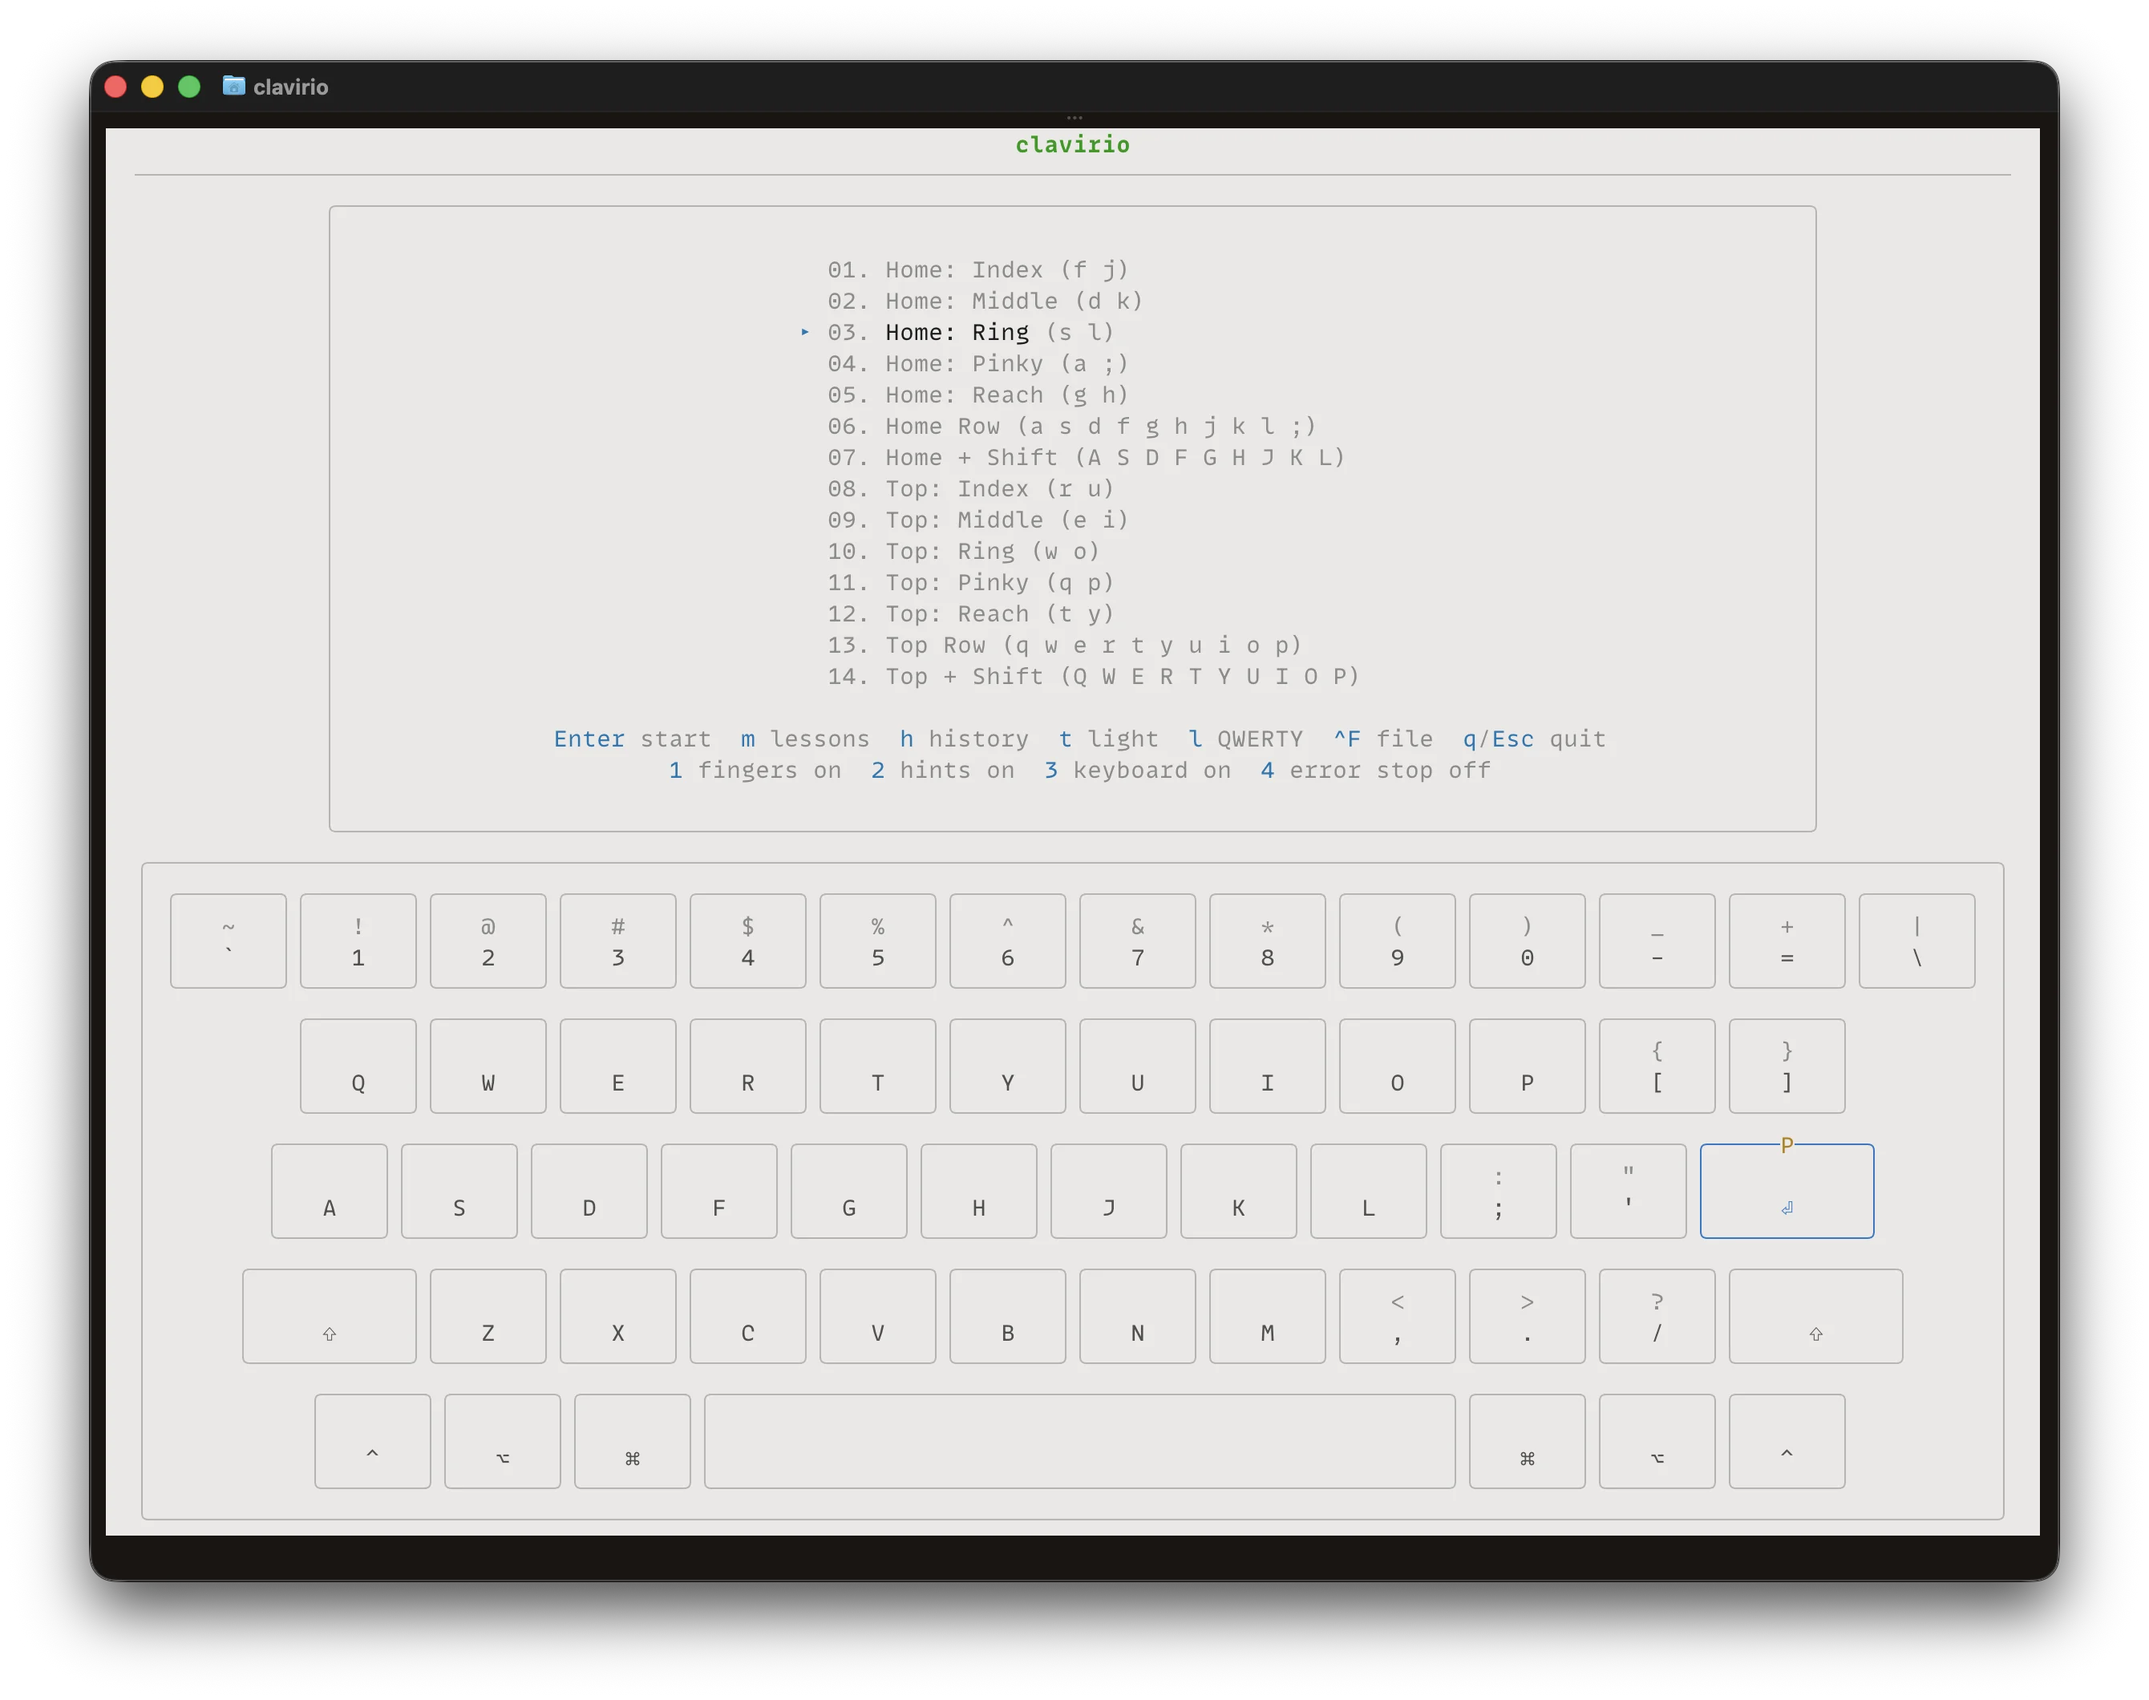
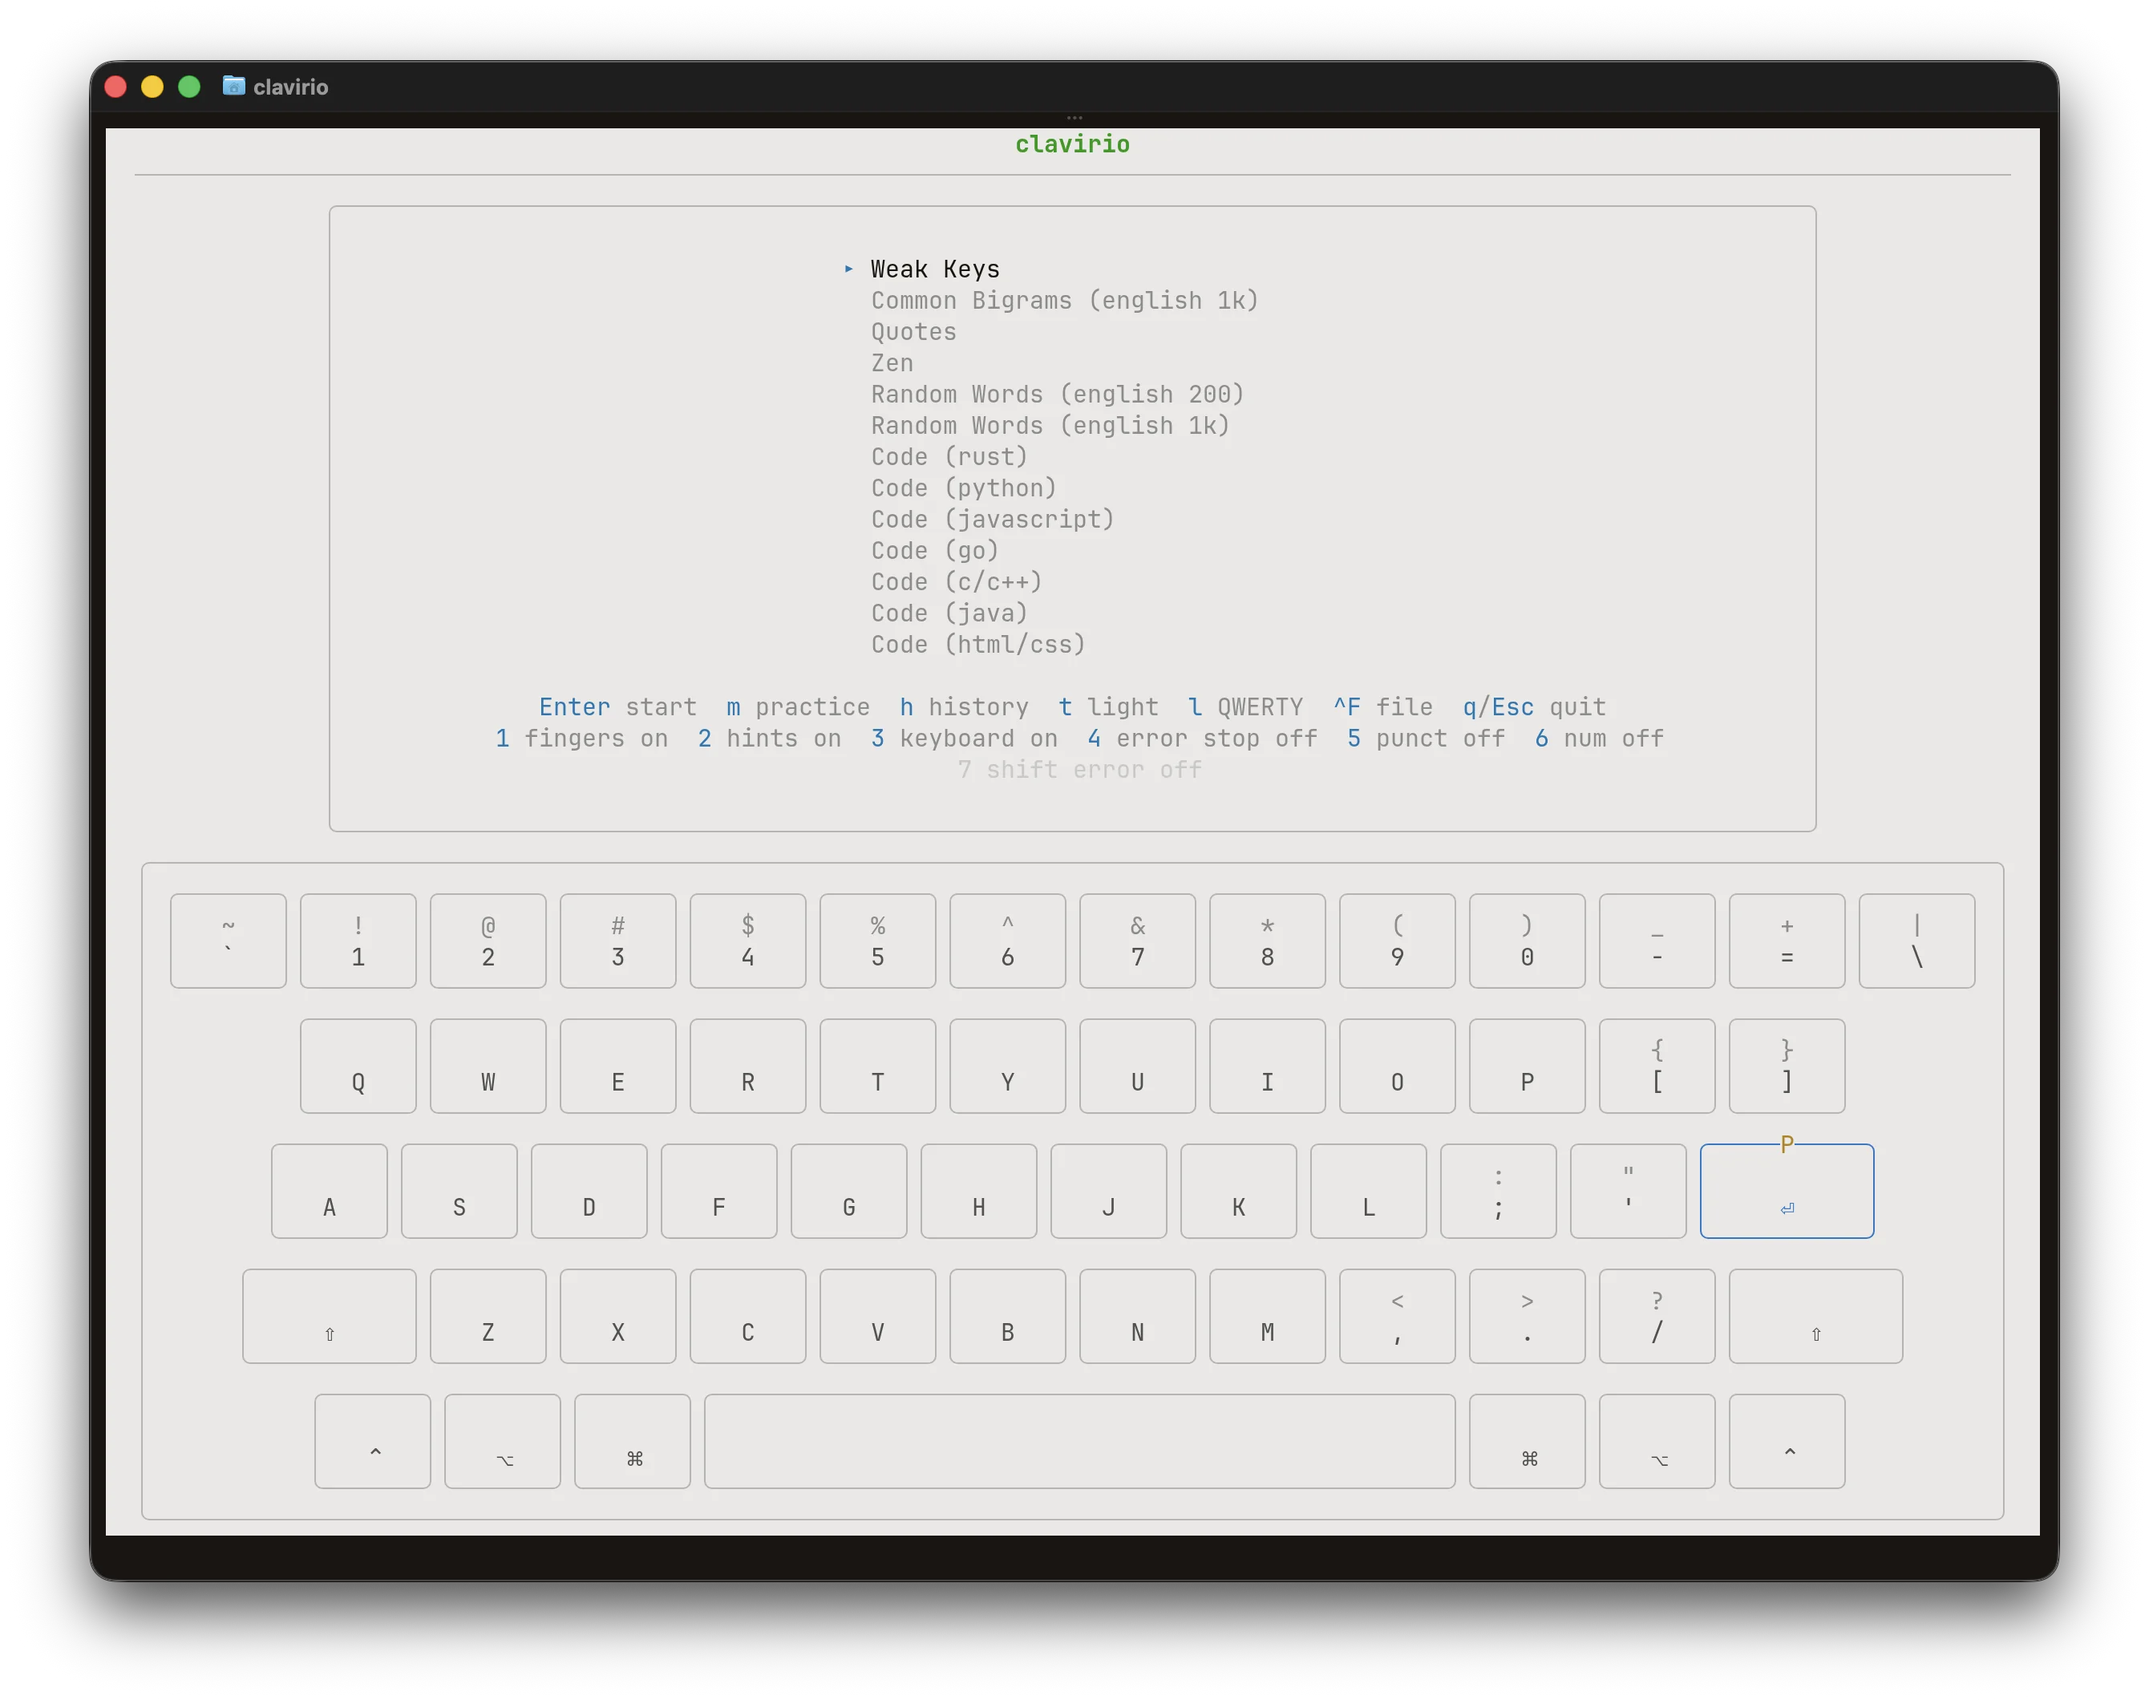
Show four screenshots with the new results screen and both menus

Changed region(s): [[0.2478, 0.1557, 0.7433, 0.467]]

diff --git a/src/components/Screenshot.tsx b/src/components/Screenshot.tsx
@@ -1,6 +1,28 @@
 import { useCallback, useEffect, useState } from "react";
 import styles from "./Screenshot.module.css";
 
+const SCREENSHOT_WIDTH = 2680;
+const SCREENSHOT_HEIGHT = 2120;
+
+const screenshots = [
+  {
+    src: "/images/screenshot_dark.webp",
+    alt: "clavirio dark theme — typing lesson with virtual keyboard and live stats",
+  },
+  {
+    src: "/images/screenshot_dark_2.webp",
+    alt: "clavirio dark theme — results screen with a new best speed, WPM sparkline, weakest keys and each key coloured by its accuracy",
+  },
+  {
+    src: "/images/screenshot_dark_3.webp",
+    alt: "clavirio dark theme — lesson menu with virtual keyboard",
+  },
+  {
+    src: "/images/screenshot_light.webp",
+    alt: "clavirio light theme — practice menu with virtual keyboard",
+  },
+];
+
 export default function Screenshot() {
   const [lightbox, setLightbox] = useState<string | null>(null);
 
@@ -21,35 +43,18 @@ export default function Screenshot() {
     <section className={styles.section}>
       <div className="container">
         <div className={styles.grid}>
-          <div className={styles.wrapper} onClick={() => setLightbox("/images/screenshot_dark.webp")}>
-            <img
-              src="/images/screenshot_dark.webp"
-              alt="clavirio dark theme — typing lesson with virtual keyboard and live stats"
-              width={2708}
-              height={2120}
-              className={styles.image}
-            />
-          </div>
-          <div className={styles.wrapper} onClick={() => setLightbox("/images/screenshot_dark_2.webp")}>
-            <img
-              src="/images/screenshot_dark_2.webp"
-              alt="clavirio dark theme — results screen with a new best speed, WPM sparkline, weakest keys and each key coloured by its accuracy"
-              width={2680}
-              height={2120}
-              loading="lazy"
-              className={styles.image}
-            />
-          </div>
-          <div className={styles.wrapper} onClick={() => setLightbox("/images/screenshot_light.webp")}>
-            <img
-              src="/images/screenshot_light.webp"
-              alt="clavirio light theme — lesson menu with virtual keyboard"
-              width={2752}
-              height={2120}
-              loading="lazy"
-              className={styles.image}
-            />
-          </div>
+          {screenshots.map((shot, i) => (
+            <div className={styles.wrapper} key={shot.src} onClick={() => setLightbox(shot.src)}>
+              <img
+                src={shot.src}
+                alt={shot.alt}
+                width={SCREENSHOT_WIDTH}
+                height={SCREENSHOT_HEIGHT}
+                loading={i === 0 ? undefined : "lazy"}
+                className={styles.image}
+              />
+            </div>
+          ))}
         </div>
       </div>
 

diff --git a/index.html b/index.html
@@ -16,7 +16,7 @@
     <meta property="og:title" content="clavirio — Terminal Typing Tutor">
     <meta property="og:description" content="A free, open-source terminal typing tutor built with Rust. Learn touch typing with support for QWERTY, Dvorak, and Colemak, plus real-time stats, finger placement hints, and a virtual keyboard.">
     <meta property="og:image" content="https://clavir.io/images/screenshot_dark.webp">
-    <meta property="og:image:width" content="2708">
+    <meta property="og:image:width" content="2680">
     <meta property="og:image:height" content="2120">
     <meta property="og:image:alt" content="clavirio terminal typing tutor screenshot showing a typing lesson with virtual keyboard and finger placement hints">
 
